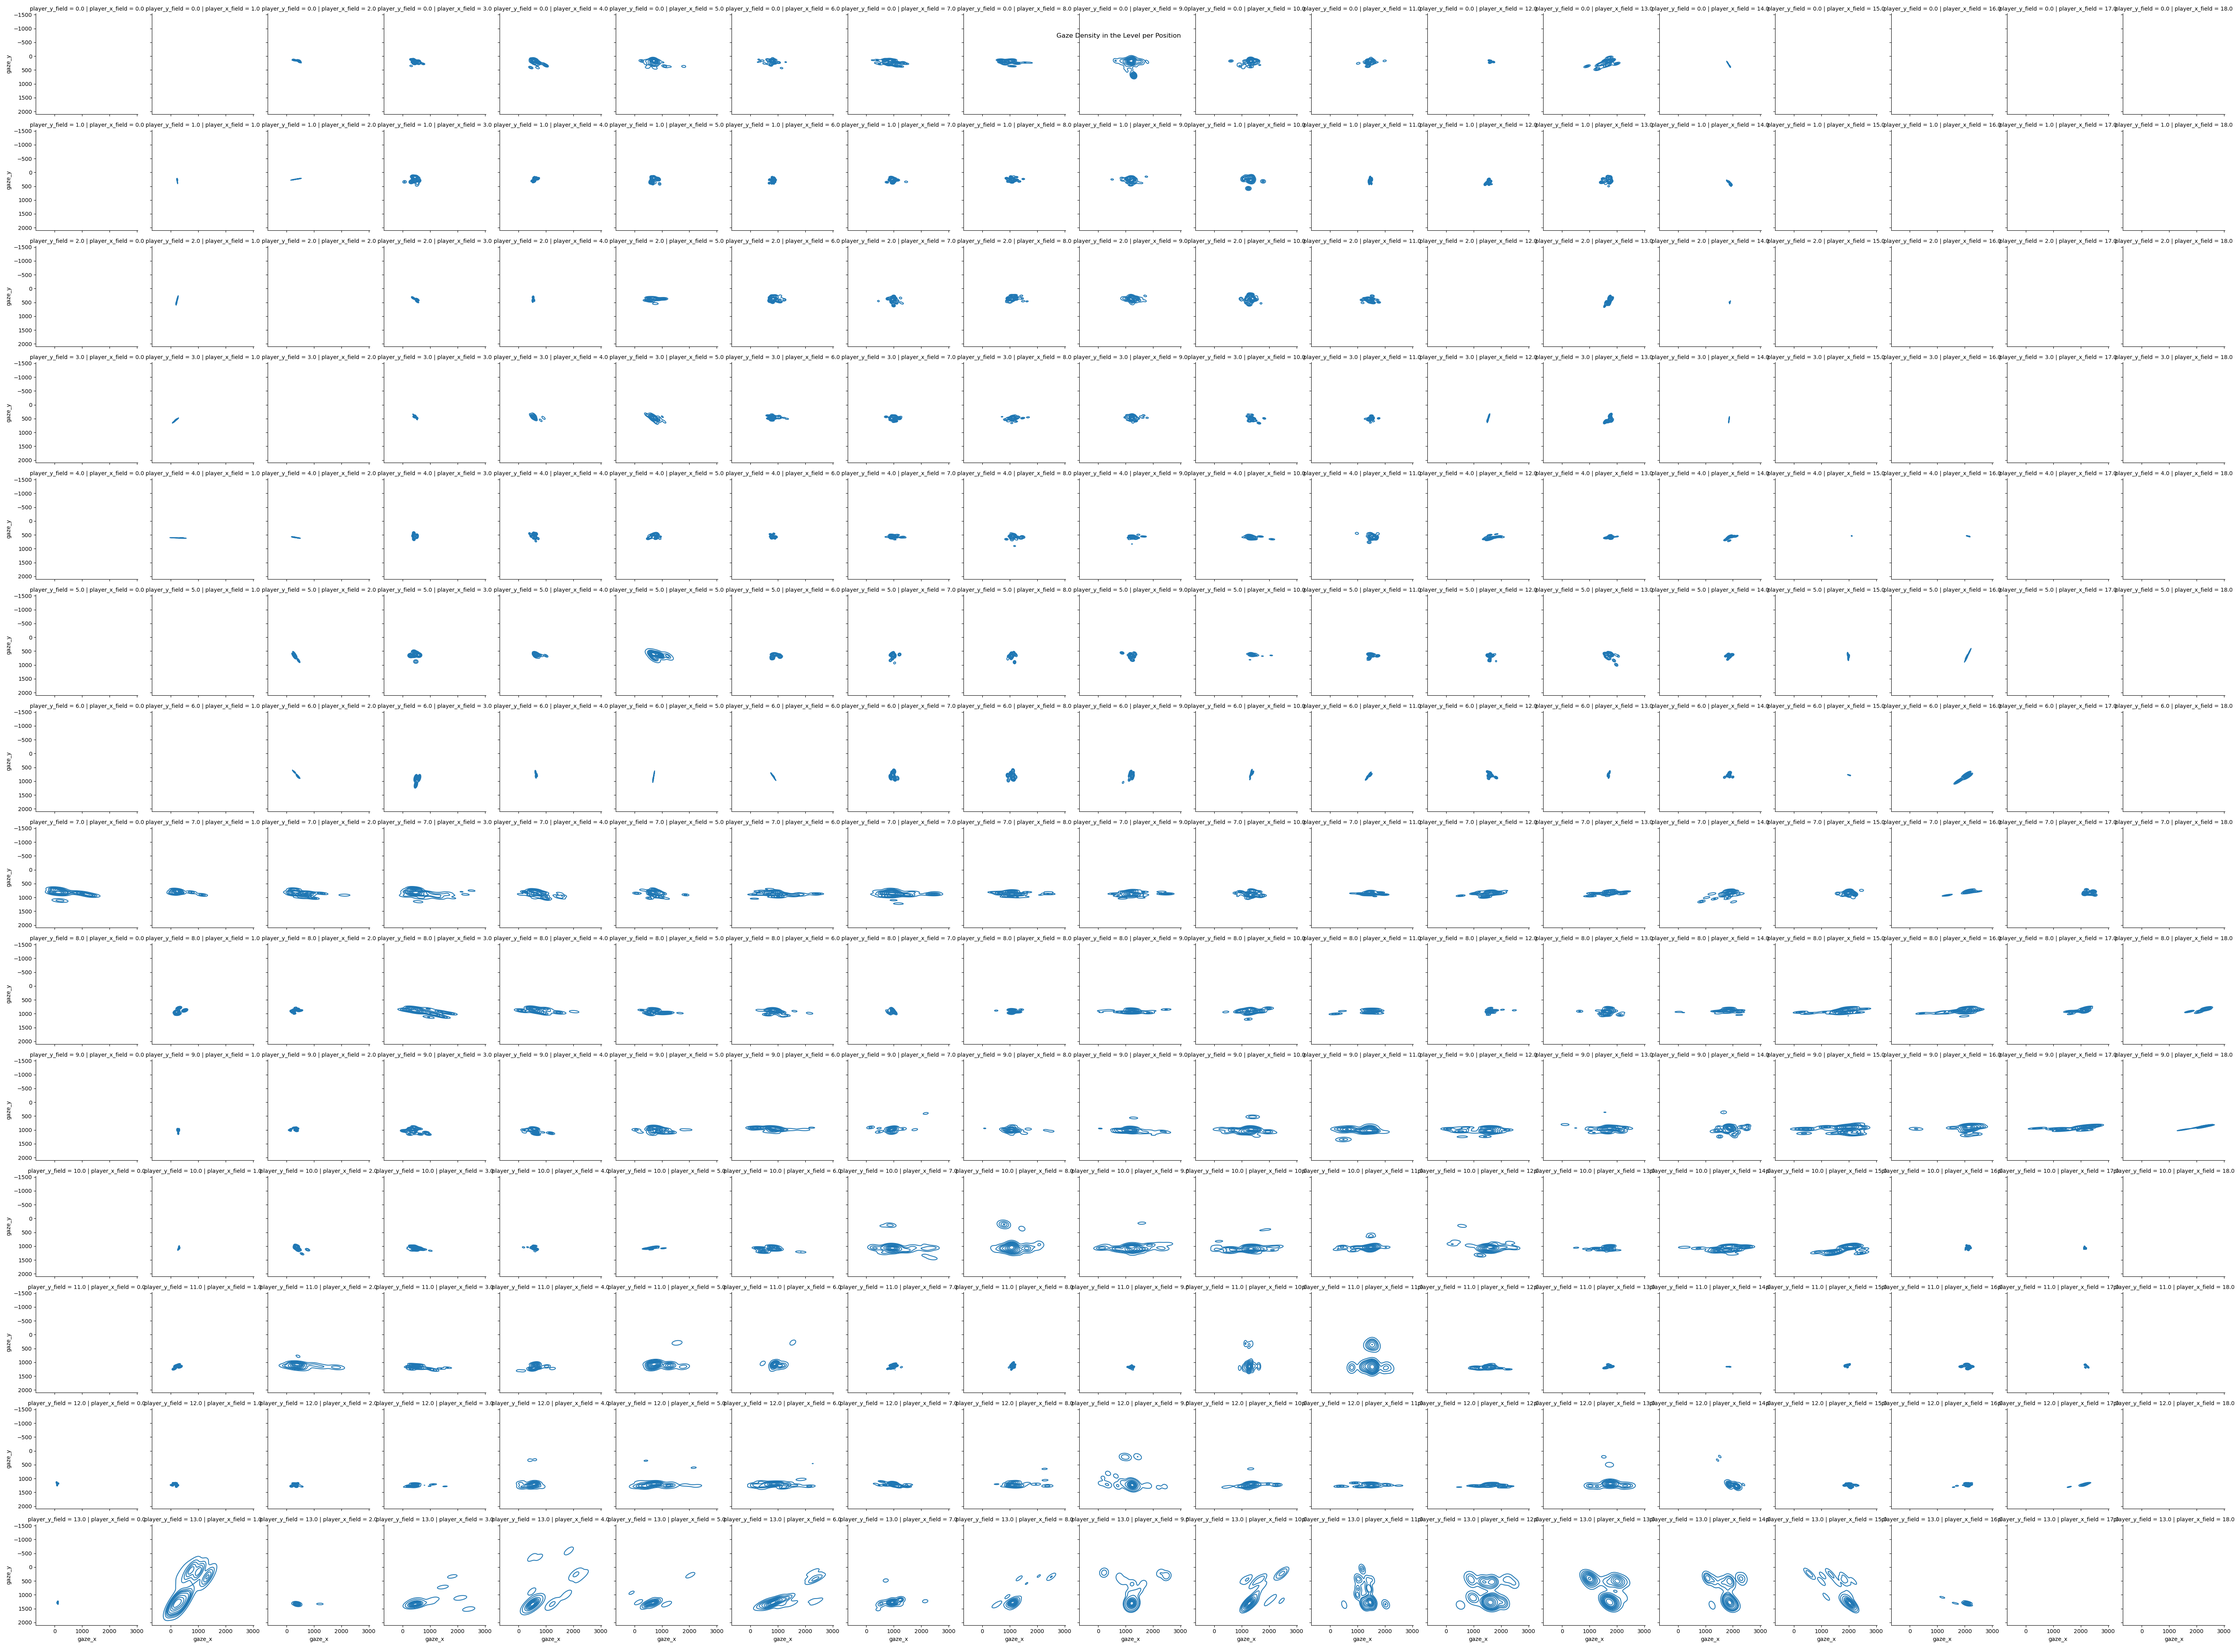
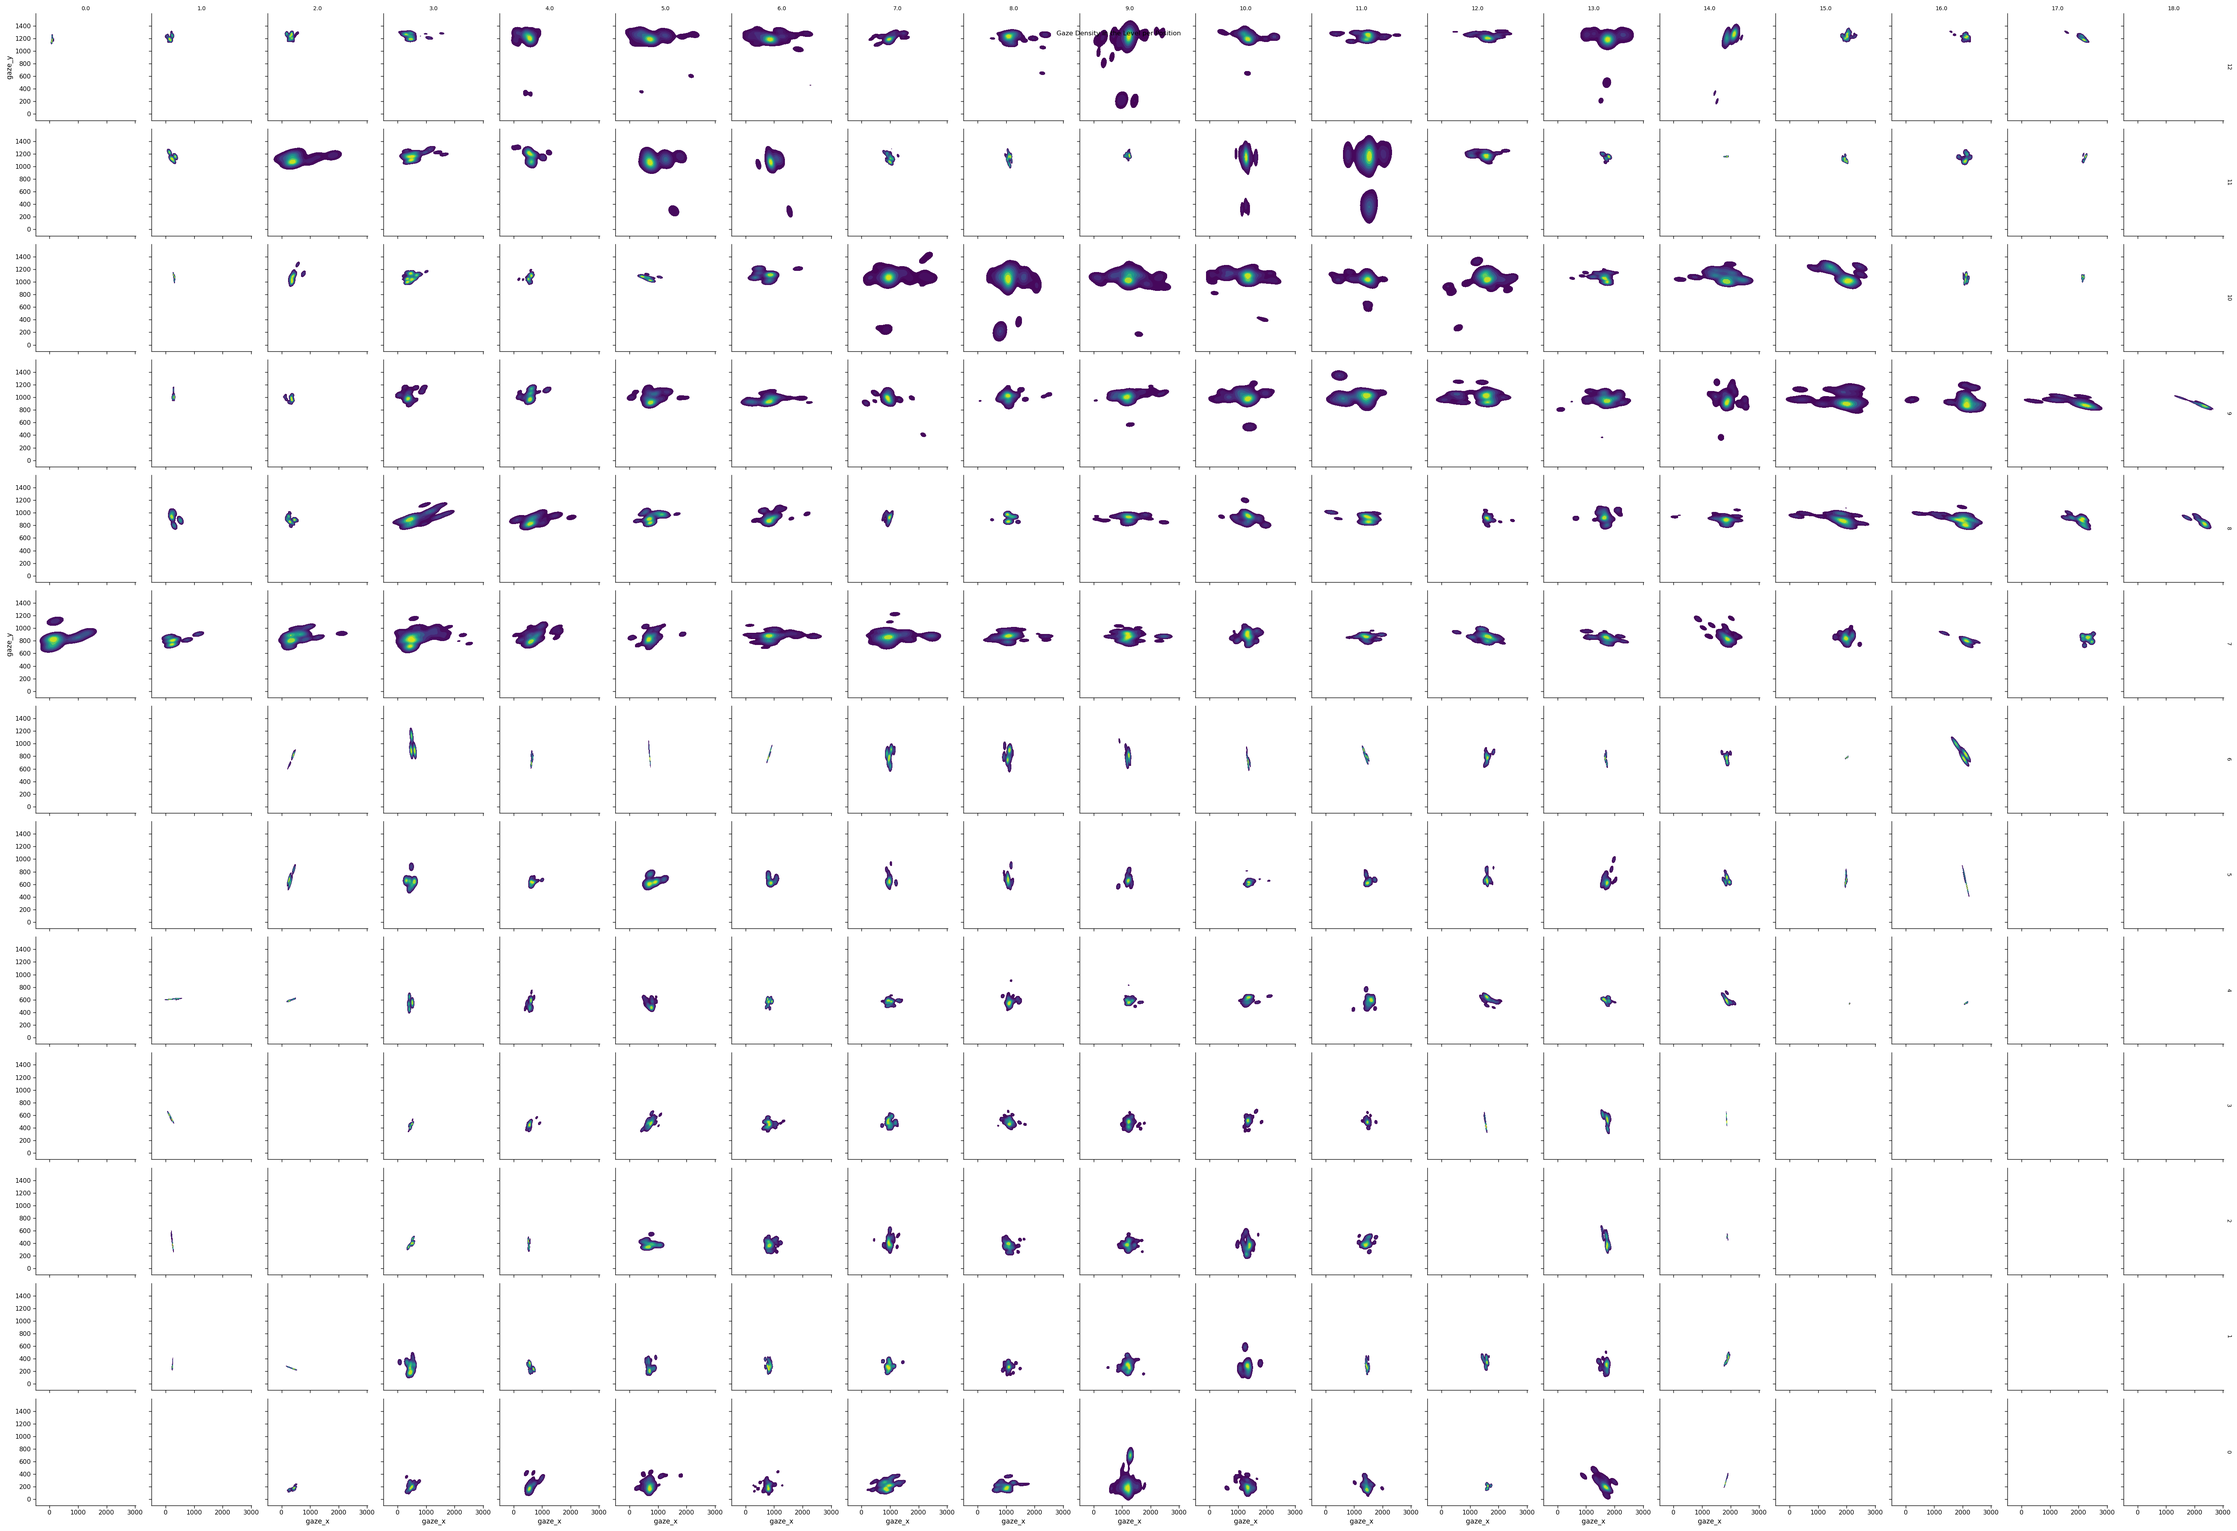
plot gaze density for every possible player position (only one subject for now)

diff --git a/analysis/plotting/gaze/gaze_per_position.py b/analysis/plotting/gaze/gaze_per_position.py
@@ -3,6 +3,7 @@ import numpy as np
 import pandas as pd
 import seaborn as sns
 
+import config
 from analysis.data_utils import read_data, read_subject_data
 
 
@@ -46,7 +47,7 @@ def plot_heatmap(*args, **kwargs):
                                 fill_value=0)
 
     if args[0] == 'gaze_angle':
-        ax = sns.heatmap(data_pivot, vmin=-np.pi, vmax=np.pi, center=0),   # , annot=True, annot_kws={"fontsize": 8})
+        ax = sns.heatmap(data_pivot, vmin=-np.pi, vmax=np.pi, center=0),  # , annot=True, annot_kws={"fontsize": 8})
         # set color bar ticks
         # cbar = ax.collections[0].colorbar
         # cbar.set_ticks([-np.pi, 0, np.pi])
@@ -104,12 +105,38 @@ def plot_gaze_heatmap_per_position_of_player(df):
     plt.show()
 
 
-def plot_gaze_kde_per_player_position(df):
-    g = sns.FacetGrid(df, col="player_x_field", row="player_y_field")
-    g.map_dataframe(sns.kdeplot, x='gaze_x', y='gaze_y', shade=True, cmap="viridis")
+def plot_kde_with_player_position(*args, **kwargs):
+    data = kwargs.pop('data')
 
-    for ax in g.axes[0]:
-        ax.invert_yaxis()
+    ax = sns.kdeplot(data=data, x='gaze_x', y='gaze_y', shade=True, cmap="viridis")
+
+    # plot circle for player position
+    # TODO also plot player position. The below code always plotted the same position
+    # player_x = data['player_x_field'].iloc[0]
+    # player_y = data['player_y_field'].iloc[0]
+    # player_circle = plt.Circle((player_x, player_y), 50, color='red')
+    # ax.add_patch(player_circle)
+
+
+def plot_gaze_kde_per_player_position(df):
+    # only use gaze samples within screen:
+    gaze_on_screen_mask = (0.0 <= df['gaze_x']) & (df['gaze_x'] <= config.DISPLAY_WIDTH_PX) & (0.0 <= df['gaze_y']) & (
+            df['gaze_y'] <= config.DISPLAY_HEIGHT_PX)
+    df = df[gaze_on_screen_mask]
+
+    with sns.plotting_context('paper', font_scale=1.3):
+        g = sns.FacetGrid(df, col="player_x_field", row="player_y_field", margin_titles=True,
+                          row_order=reversed(range(int(df['player_y_field'].max()))))
+
+    g.map_dataframe(plot_kde_with_player_position)
+
+    [plt.setp(ax.texts, text="") for ax in g.axes.flat]  # remove the original texts
+    # important to add this before setting titles
+    g.set_titles(row_template='{row_name}', col_template='{col_name}')
+
+    # TODO needed? I think no, rather on a FacetGrid Level
+    # for ax in g.axes[0]:
+    #     ax.invert_yaxis()
 
     plt.suptitle('Gaze Density in the Level per Position')
     plt.savefig('./imgs/gaze/gaze_density_per_position.png')
@@ -120,7 +147,8 @@ def plot_gaze_kde_per_player_position(df):
     #     sns.kdeplot(x=x, y=y, shade=True, cmap="viridis", ax=g.ax_joint)
 
 
+# TODO run for all subjects
 df = read_subject_data('AN06AN')
 df = calculate_avg_gaze_distance_per_field(df)
-plot_gaze_heatmap_per_position_of_player(df)
+# plot_gaze_heatmap_per_position_of_player(df)
 plot_gaze_kde_per_player_position(df)
